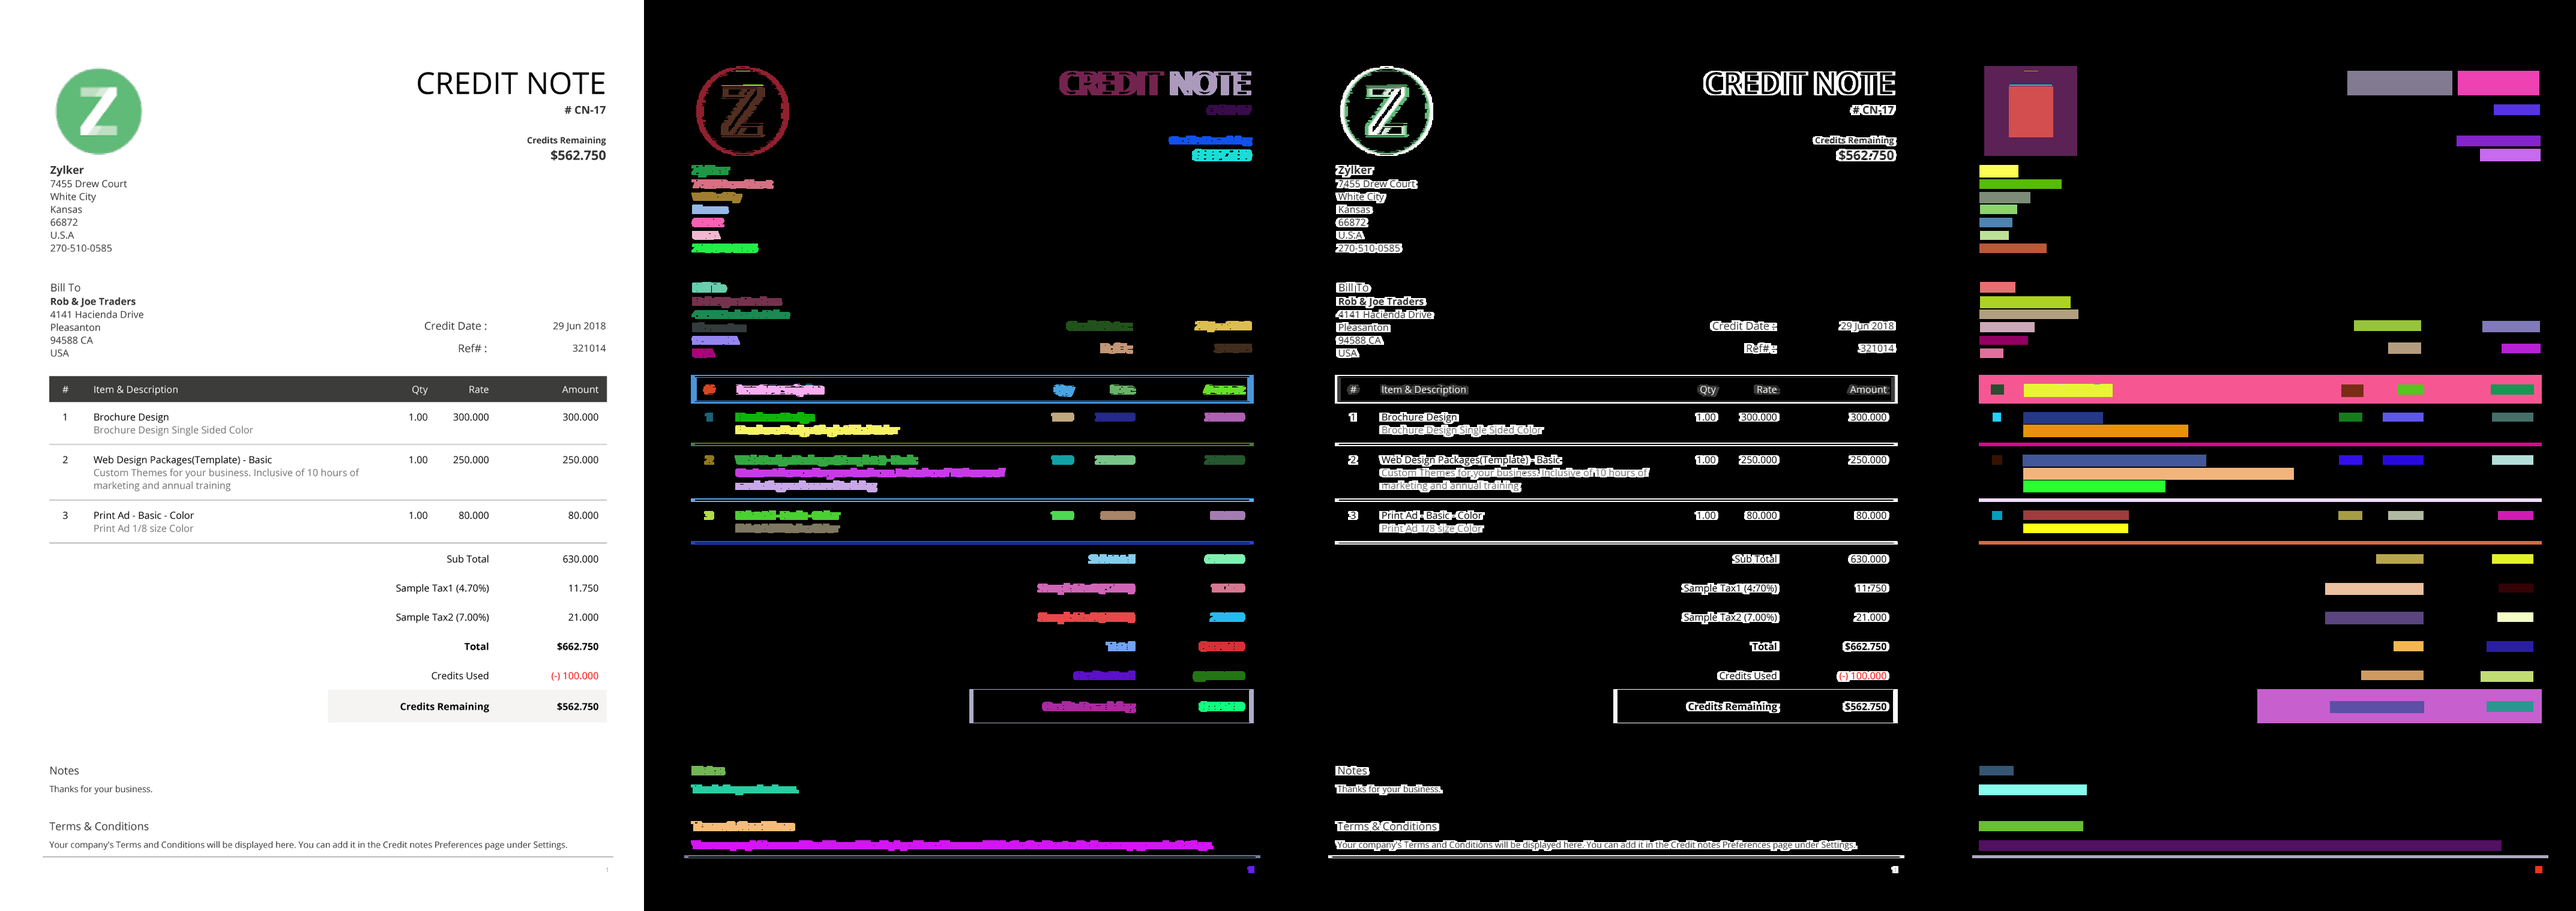
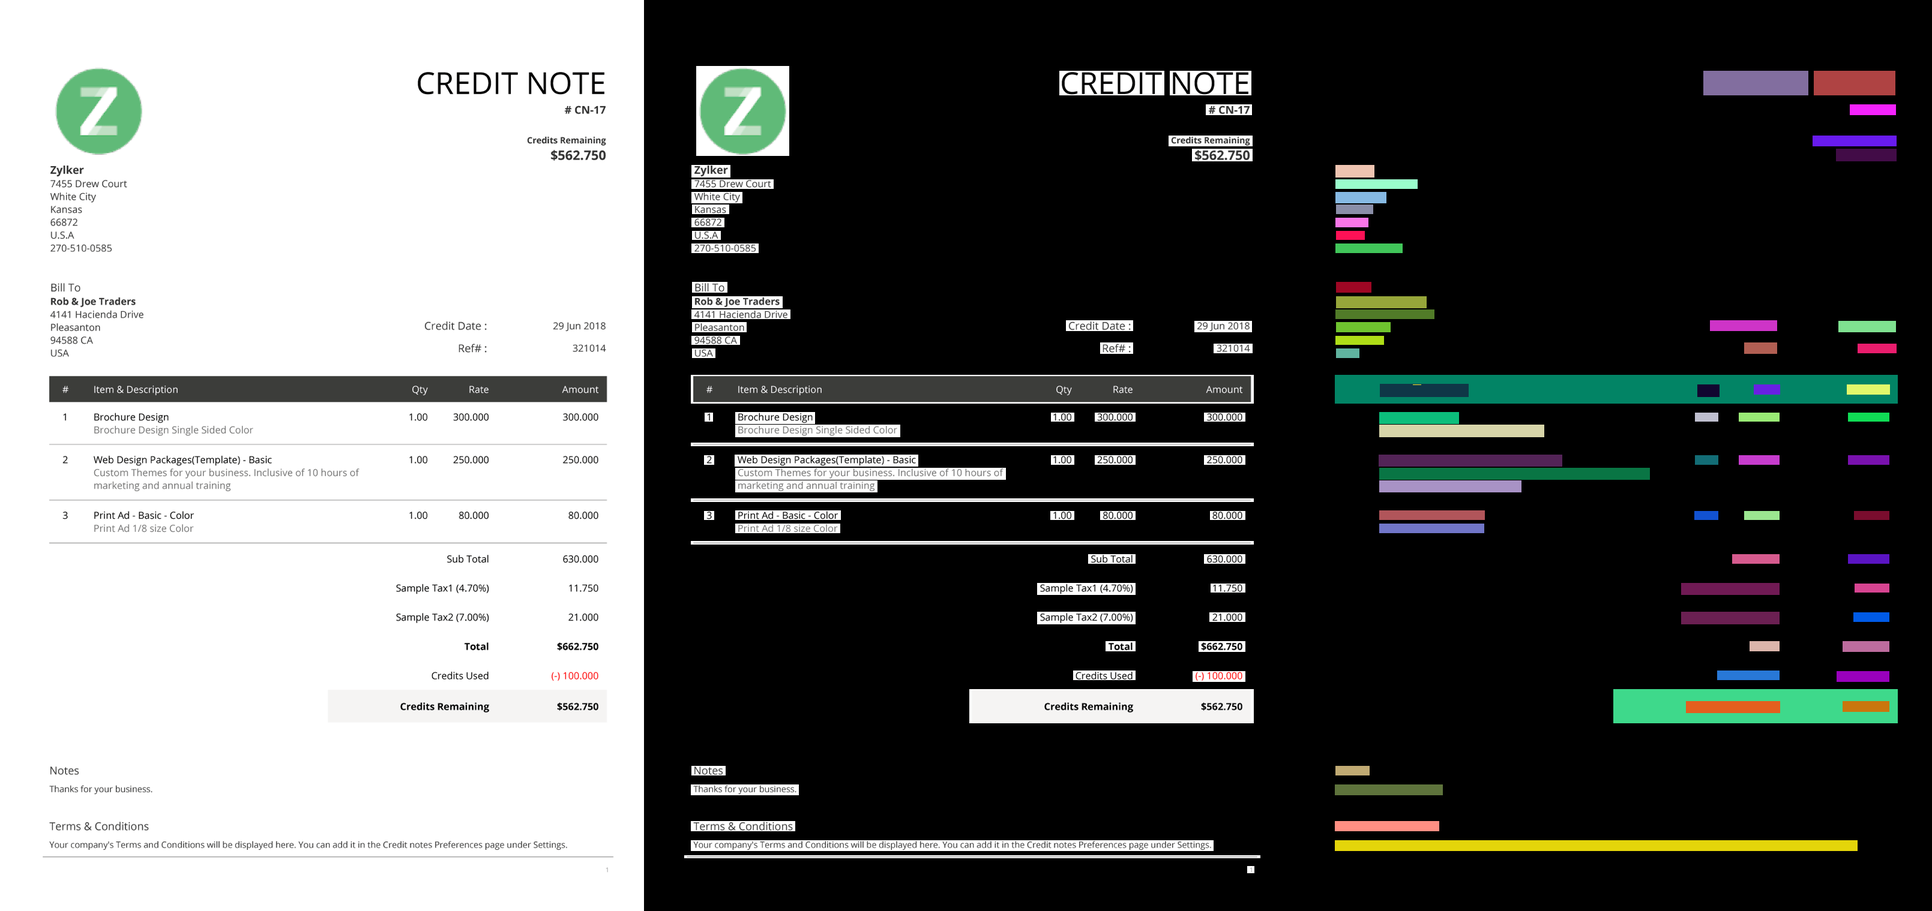
Create InfoRepo and PatchInfo

diff --git a/main.py b/main.py
@@ -1,28 +1,52 @@
 import cv2
 import numpy as np
-from utilities import saveImage, GetColoredSegmentationMask
+import pytesseract as pt
+
+pt.pytesseract.tesseract_cmd = r'C:/Program Files/Tesseract-OCR/tesseract.exe'
+
+from utilities import saveImage, GetColoredSegmentationMask, isText
 from segTask import getSegments, getMask, getSegmentPositions, getRectSegments
 from collections import deque
+from patchInfo import PatchInfo
 
 ## Read Image
-for IMG_NO in range(5,11):
-	img = cv2.imread(f'Invoices/invoices ({IMG_NO}).jpg')
-	print("Image Shape: ",img.shape)
+IMG_NO  = 2
+IMG = cv2.imread(f'Invoices/invoices ({IMG_NO}).jpg')
+IMG_GRAY = cv2.cvtColor(IMG, cv2.COLOR_BGR2GRAY)
+print("Image Shape: ",IMG.shape)
+IMG_HEIGHT = IMG.shape[0]
+IMG_WIDTH = IMG.shape[1]
 
-	MaskImg = getMask(img, fSize=3)
-	MaskImg3 = np.repeat(MaskImg[...,None],3,axis=2)
-	ResultMask =  np.where(MaskImg3, img, 0)
-	segLabel, segmentCount = getSegments(MaskImg)
-	segMask = GetColoredSegmentationMask(segLabel, segmentCount)
-	# saveImage([img,MaskImg3,ResultMask, segMask], f'segMask{IMG_NO}')
+MaskImg = getMask(IMG, fSize=3)
+MaskImg3 = np.repeat(MaskImg[...,None],3,axis=2)
+ResultMask =  np.where(MaskImg3, IMG, 0)
+segLabel, segmentCount = getSegments(MaskImg)
+segMask = GetColoredSegmentationMask(segLabel, segmentCount)
 
-	segLabel_Pos = getSegmentPositions(segLabel, segmentCount)
-	Rect_segLabel = getRectSegments(segLabel_Pos, maskShape = segLabel.shape)
-	Rect_MaskImg = np.where(Rect_segLabel, 255, 0).astype(np.uint8)
-	Rect_MaskImg3 = np.repeat(Rect_MaskImg[...,None],3,axis=2)
-	Rect_ResultMask =  np.where(Rect_MaskImg3, img, 0)
-	Rect_segMask = GetColoredSegmentationMask(Rect_segLabel, segmentCount)
-	saveImage([img, segMask, ResultMask, Rect_segMask], f'Visualizations/segMask{IMG_NO}')
+segLabel_Positions = getSegmentPositions(segLabel, segmentCount)
+
+## We need to remove the boxes which cover the entire Page, Maybe Neglect Them
+def isNotBig(pos_coord):
+  minX, maxX, minY, maxY = pos_coord
+  if maxY-minY > 0.5*IMG_HEIGHT: return False
+  return True 
+
+segLabel_Positions = segLabel_Positions[[isNotBig(pos_coord) for pos_coord in segLabel_Positions]]
+print("Segments After Eliminating Big Segments: ", len(segLabel_Positions))
+
+Rect_segLabel = getRectSegments(segLabel_Positions, maskShape = segLabel.shape)
+Rect_MaskImg = np.where(Rect_segLabel, 255, 0).astype(np.uint8)
+Rect_MaskImg3 = np.repeat(Rect_MaskImg[...,None],3,axis=2)
+Rect_ResultMask =  np.where(Rect_MaskImg3, IMG, 0)
+# Rect_segMask = GetColoredSegmentationMask(Rect_segLabel, segmentCount)
+
+PatchInfoList = [PatchInfo(IMG_GRAY, segLabel_Positions[idx], idx) for idx in range(len(segLabel_Positions))]
+segLabel_Pos_filter = segLabel_Positions[[ x.isText() for x in PatchInfoList ]]
+print("Segments After Eliminating Segments With No Text: ", len(segLabel_Pos_filter))
+
+Rect_segLabel_filter = getRectSegments(segLabel_Pos_filter, maskShape = segLabel.shape)
+Rect_segMask_filter = GetColoredSegmentationMask(Rect_segLabel_filter, segmentCount)
+saveImage([IMG, Rect_ResultMask, Rect_segMask_filter], f'Visualizations/segMask{IMG_NO}')
 
 ### Clean Up ###
 cv2.destroyAllWindows()

diff --git a/patchInfo.py b/patchInfo.py
@@ -1,0 +1,43 @@
+import cv2
+import numpy as np
+import pandas as pd
+import pytesseract as pt
+import utilities as utl
+import infoRepo as ir
+
+class PatchInfo:
+	def __init__(self, img, pos_coord = None, idx=None):
+		minX, maxX, minY, maxY = pos_coord
+		self.idx = idx
+		self.img = img
+		self.pos_coord = pos_coord
+		self.Height = self.img.shape[0]
+		self.Width = self.img.shape[1]
+		self.text = self.extractText()
+		self.textDict = dict()
+
+	def extractText(self):
+		""" Extract Patch, Equilize The Image, Try With Different Padding Size """
+		for pad in range(1,9):
+			print(self.pos_coord)
+			img_ = utl.getPatch(self.img, self.pos_coord, pad)
+			print(img_.shape)
+			cv2.imshow('img_', img_)
+			equ = cv2.equalizeHist(img_)
+			cv2.imshow('eqy', equ)
+			cv2.waitKey(2000)
+			self.text = utl.getText(equ)
+			if self.text is not None: break
+
+	def isText(self): return (self.text is not "")
+	def isHeader(self): return (self.text in ir.HeaderBag)
+
+	def findTextInfo(self):
+		""" Extract Information """
+		if self.text == "": return
+		self.textDict['isKeyword'] = self.isKeyword()
+		self.textDict['isHeader'] = self.isHeader()
+		self.textDict['isKeyword'] = self.isKeyWord()
+
+
+

diff --git a/utilities.py b/utilities.py
@@ -1,5 +1,6 @@
 import cv2
 import numpy as np
+import pytesseract as pt
 
 def saveImage(img, imgName):
 	""" Concates horizontally Images: Save as PNG """
@@ -19,3 +20,12 @@ def GetColoredSegmentationMask(seg, segmentCount):
 			seg_img[:, :, 1] += ((seg[:, :, 0] == c) * (colors[c][1])).astype('uint8')
 			seg_img[:, :, 2] += ((seg[:, :, 0] == c) * (colors[c][2])).astype('uint8')
 	return seg_img
+
+def getPatch(img, pos_coord, pad=2):
+	""" Get Patch from Image and Coordinates Positions """
+	minX, maxX, minY, maxY = pos_coord
+	return img[minY-pad:maxY+1+pad,minX-pad: maxX+1+pad]
+	
+def getText(img): return pt.image_to_string(img)
+def getPatchText(img,pos_coord,pad=2): return getText(getPatch(img,pos_coord,pad))
+def isText(img, pos_coord, pad=2): return (getPatchText(img,pos_coord,pad) is not "")

diff --git a/infoRepo.py b/infoRepo.py
@@ -1,0 +1,15 @@
+""" This file is for storing data useful in
+    extracting information from the Bills """
+
+### Bag of Words for different Category ###
+qtyBag = ['QTY', 'Quantity', 'Count']
+perUnitCost = ['Item Count', 'Per Item']
+priceBag = ['Cost', 'Amount', 'Total']
+totalBag = ['Grand Total', 'Final Amount','Invoice Total', 'Total']
+
+## Exhaustive Lists 
+
+TermBag = ['Discount', 'Tax', 'Sub Total', 'Subtotal']
+HeaderBag = ['Sno', '#']
+
+Keywords = qtyBag + perUnitCost + priceBag + totalBag + TermBag 

diff --git a/segTask.py b/segTask.py
@@ -44,6 +44,8 @@ def getSegments(masks):
 	return segLabel, segmentCount
 
 def getSegmentPositions(segLabel, segmentCount):
+	""" Return Nx4 np_array for N segments labelled from 1 ... N 
+		  i.e. 0 pos[0] corresponds to segment with label 1 """
 	h,w = segLabel.shape
 	minX = np.repeat(w,segmentCount)
 	maxX = np.repeat(0,segmentCount)
